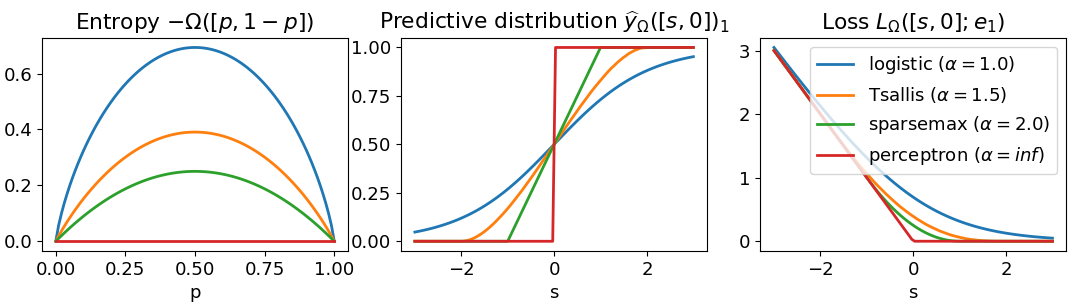
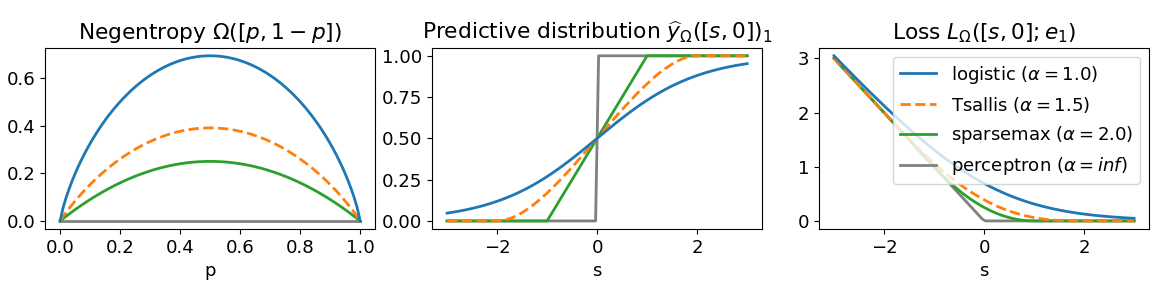
Improve figure.

diff --git a/examples/plot_clf_losses.py b/examples/plot_clf_losses.py
@@ -14,7 +14,8 @@ from fyl_numpy import TsallisLoss
 
 matplotlib.rcParams['font.size'] = 13
 
-colors = plt.cm.tab10.colors
+colors = list(plt.cm.tab10.colors)
+colors[3] = "gray"
 
 f, (ax1, ax2, ax3) = plt.subplots(1, 3, figsize=(15, 3))
 
@@ -23,23 +24,23 @@ p_vals = np.linspace(1e-9, 1-1e-9, 100)
 y_true = np.array([1, 0])
 
 i = 0
-for name, alpha in (("logistic", 1.0),
-                    ("Tsallis", 1.5),
-                    ("sparsemax", 2.0),
-                    ("perceptron", np.inf)):
+for name, alpha, zorder, ls in (("logistic", 1.0, 3, "-"),
+                               ("Tsallis", 1.5, 2, "--"),
+                               ("sparsemax", 2.0, 1, "-"),
+                               ("perceptron", np.inf, 0, "-")):
 
     loss_func = TsallisLoss(alpha=alpha)
 
     name += r" ($\alpha=%s$)" % str(alpha)
 
     ax3.plot(s_vals, [loss_func([y_true], [[s, 0]]) for s in s_vals],
-            label=name, lw=2, color=colors[i])
+            label=name, lw=2, color=colors[i], zorder=zorder, ls=ls)
 
     ax2.plot(s_vals, [loss_func.predict([[s, 0]])[0, 0] for s in s_vals],
-            label=name, lw=2, color=colors[i])
+            label=name, lw=2, color=colors[i], zorder=zorder, ls=ls)
 
     ax1.plot(p_vals, [-loss_func.Omega([[p, 1-p]])[0] for p in p_vals],
-            label=name, lw=2, color=colors[i])
+            label=name, lw=2, color=colors[i], zorder=zorder, ls=ls)
 
     i += 1
 
@@ -49,7 +50,7 @@ ax3.set_xlabel('s')
 ax2.set_title(r'Predictive distribution $\widehat{y}_{\Omega}([s, 0])_1$')
 ax2.set_xlabel('s')
 
-ax1.set_title(r'Entropy $-\Omega([p, 1-p])$')
+ax1.set_title(r'Negentropy $\Omega([p, 1-p])$')
 ax1.set_xlabel('p')
 
 ax3.legend(loc="best")

diff --git a/README.rst b/README.rst
@@ -15,10 +15,12 @@ The package is based on the **Fenchel-Young loss** framework [1,2].
    :alt: Tsallis losses
    :align: center
 
+Notice from the center plot that sparsemax and Tsallis are able to produce **exactly zero** (sparse) probabilities unlike the logistic (softmax) loss.
+
 Supported Fenchel-Young losses
 ------------------------------
 
-* Multinomial logistic loss 
+* Multinomial logistic loss
 * One-vs-all logistic loss
 * Sparsemax loss (**sparse** probabilities!)
 * Tsallis losses (**sparse** probabilities!)
@@ -45,7 +47,7 @@ scikit-learn compatible classifier:
   clf = FYClassifier(loss="sparsemax")
   clf.fit(X, y)
   print(clf.predict_proba(X[:3]))
-  
+
 Drop-in replacement for PyTorch losses:
 
 .. code-block:: python
@@ -102,7 +104,7 @@ References
 
 .. [1] *SparseMAP: Differentiable Sparse Structured Inference.*
         Vlad Niculae, André F. T. Martins, Mathieu Blondel, Claire Cardie.
-        In Proc. of ICML 2018. 
+        In Proc. of ICML 2018.
         [`arXiv <https://arxiv.org/abs/1802.04223>`_]
 
 
